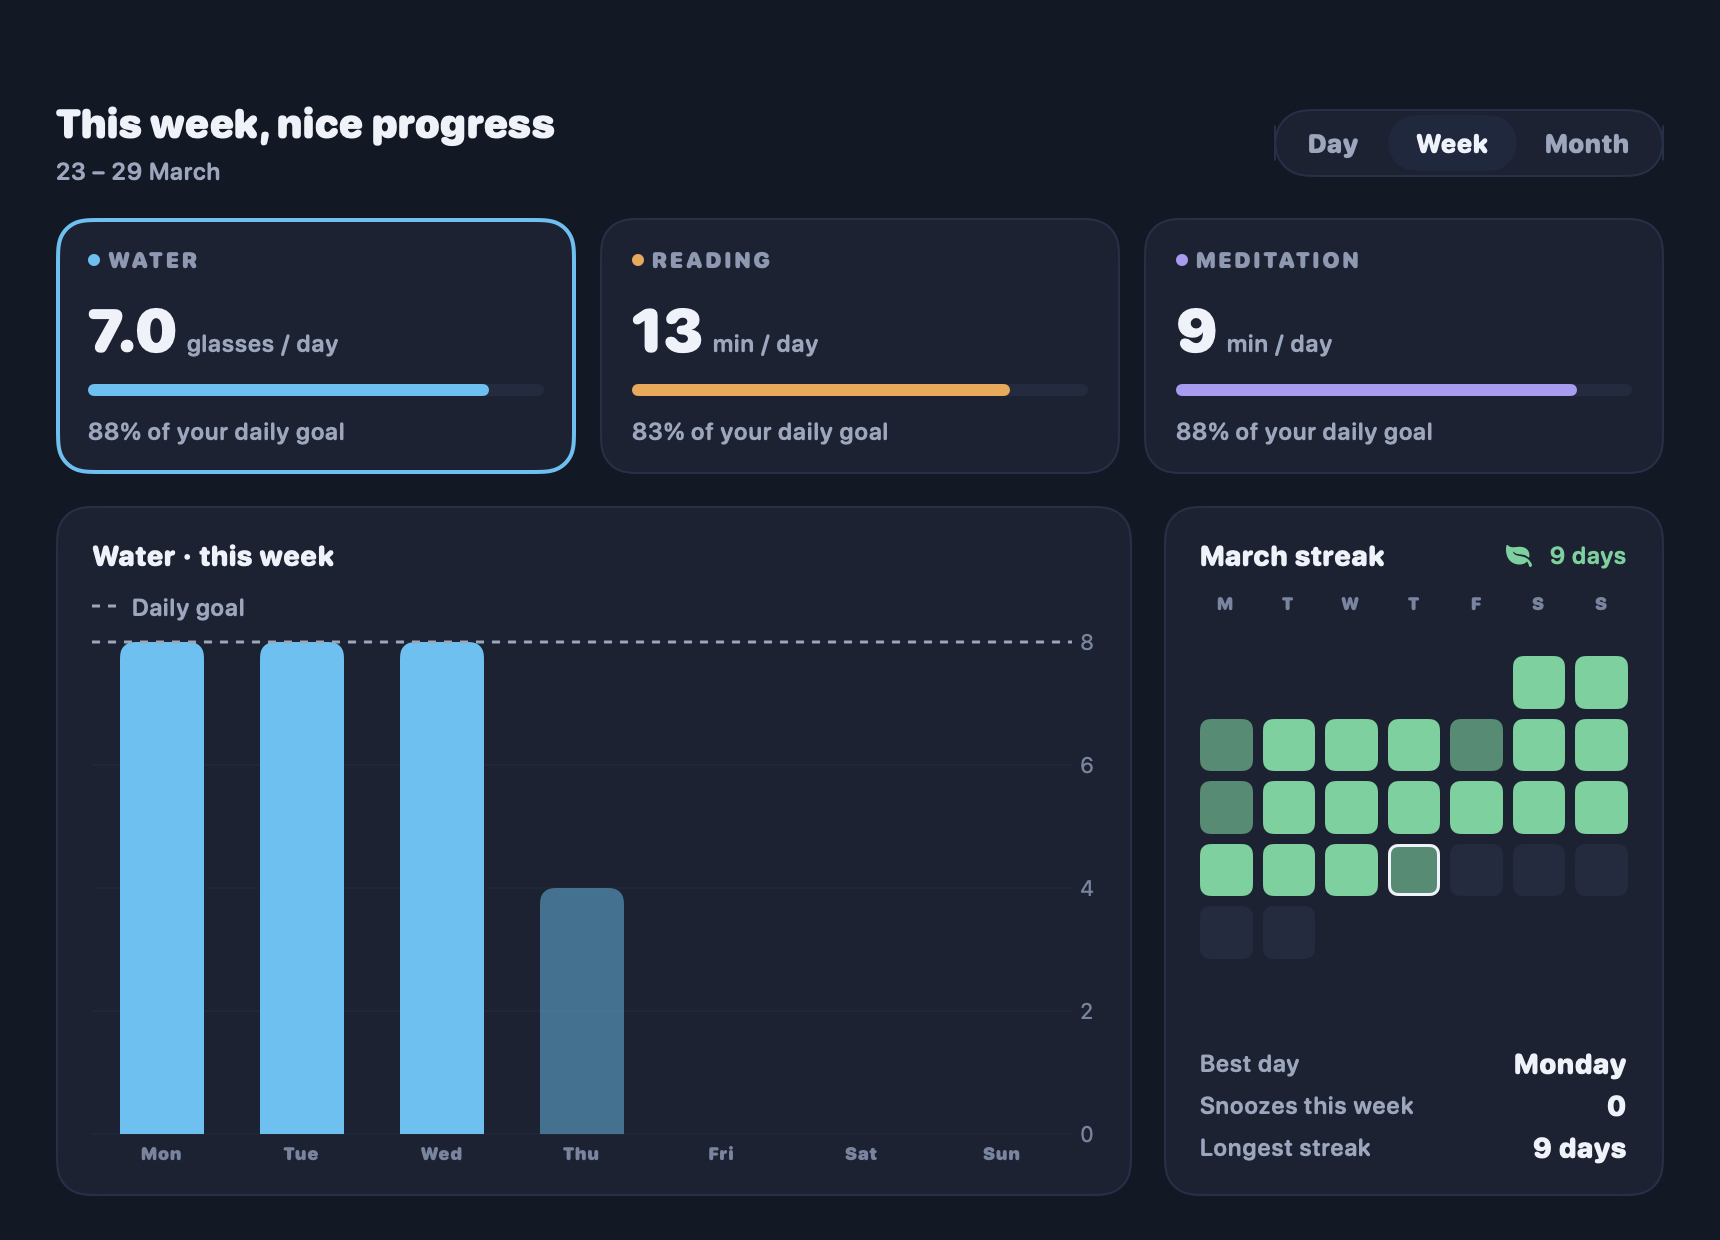
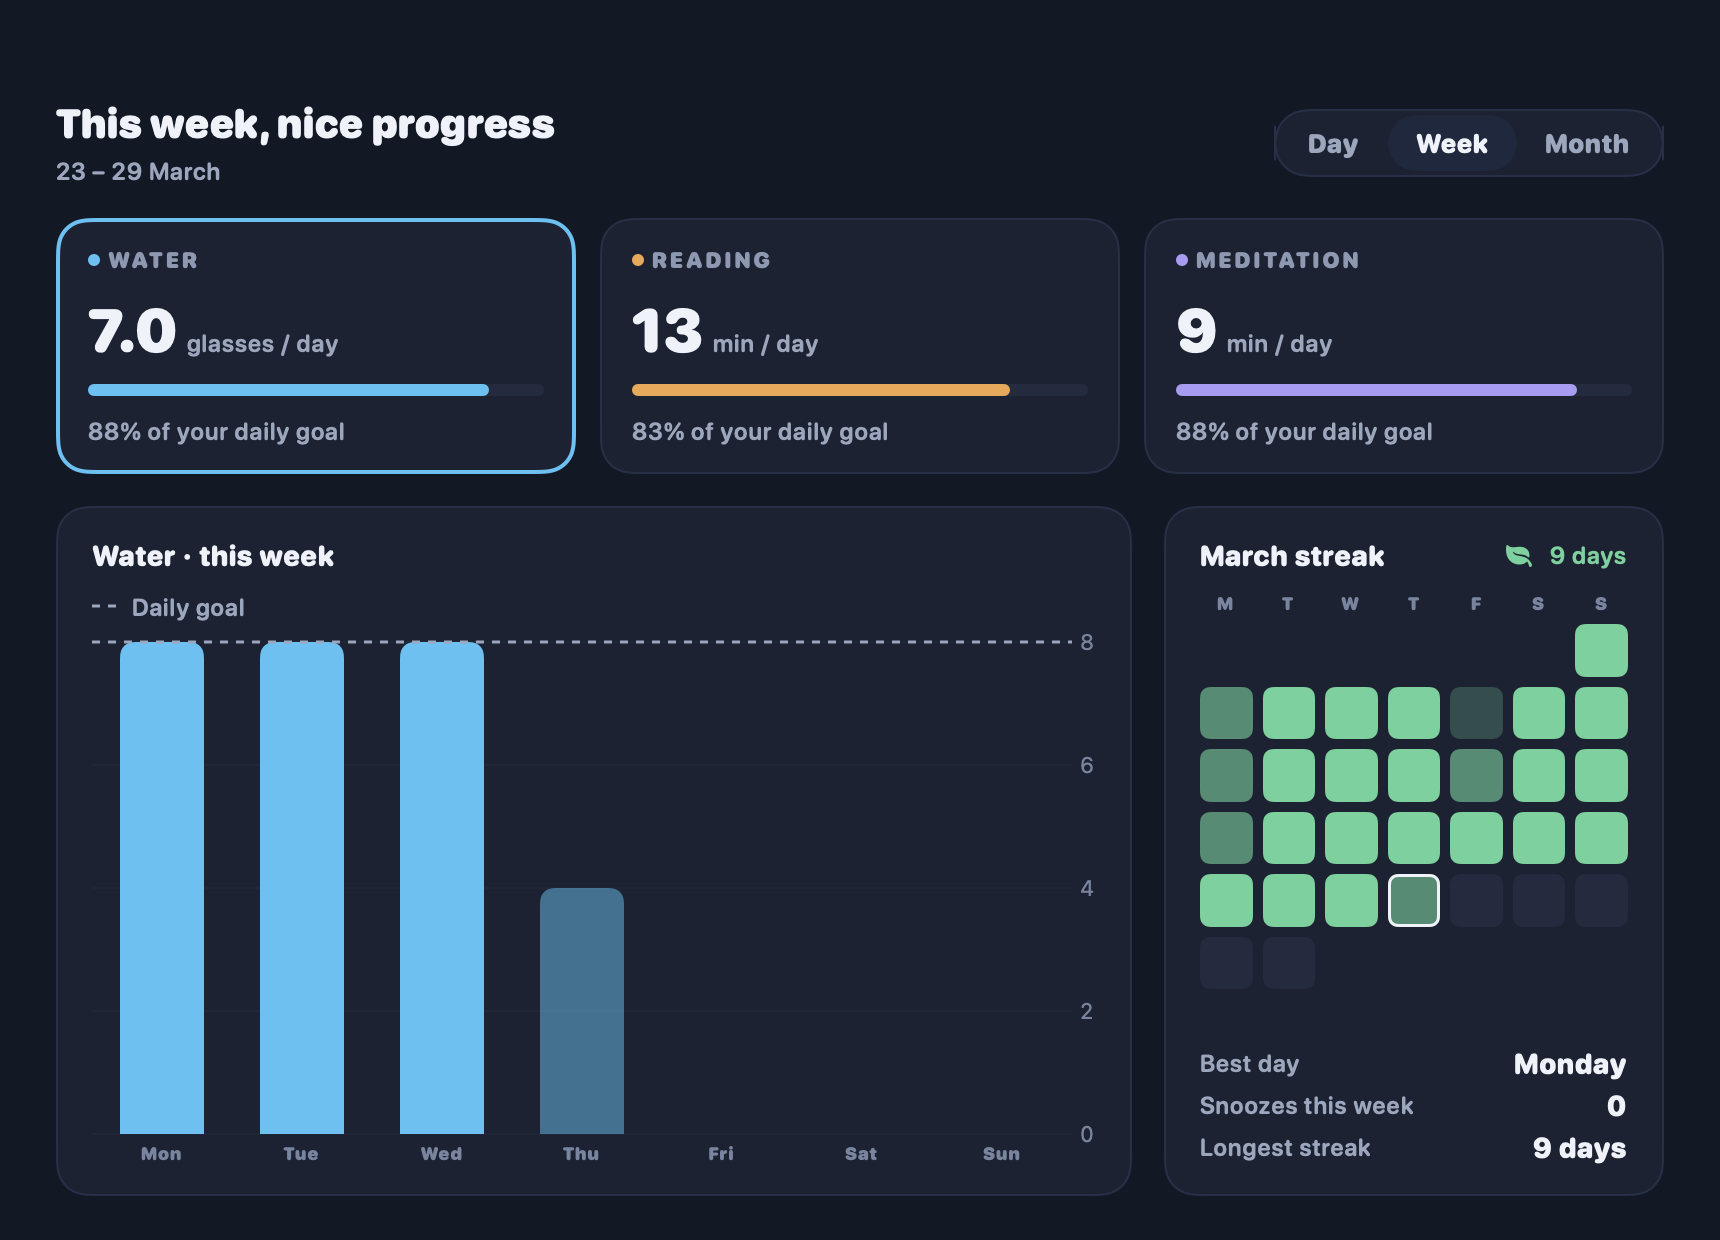
Show every day in the streak calendar
Weekday headers, blanks, and day cells shared IDs in one LazyVGrid, so SwiftUI dropped days 1 to 6. Each grid slot now has a unique ID.

Changed region(s): [[0.6779, 0.4903, 0.9552, 0.7661]]

diff --git a/Sources/SathiUI/Features/Reports/StreakCalendarView.swift b/Sources/SathiUI/Features/Reports/StreakCalendarView.swift
@@ -22,19 +22,26 @@ struct StreakCalendarView: View {
                 .foregroundStyle(Night.sprout)
             }
             LazyVGrid(columns: columns, spacing: UIMetrics.calendarCellGap) {
-                ForEach(Self.weekdays.indices, id: \.self) { i in
-                    Text(verbatim: Self.weekdays[i])
-                        .font(Typography.badge)
-                        .foregroundStyle(Night.faint)
-                }
-                ForEach(0 ..< month.leadingBlanks, id: \.self) { _ in
-                    Color.clear.aspectRatio(1, contentMode: .fit)
-                }
-                ForEach(month.cells) { cell in
-                    StreakCellView(cell: cell)
+                ForEach(Self.slots(month)) { slot in
+                    switch slot {
+                    case let .weekday(i):
+                        Text(verbatim: Self.weekdays[i])
+                            .font(Typography.badge)
+                            .foregroundStyle(Night.faint)
+                    case .blank:
+                        Color.clear.aspectRatio(1, contentMode: .fit)
+                    case let .day(cell):
+                        StreakCellView(cell: cell)
+                    }
                 }
             }
         }
+    }
+
+    static func slots(_ month: StreakMonth) -> [CalendarSlot] {
+        weekdays.indices.map(CalendarSlot.weekday)
+            + (0 ..< month.leadingBlanks).map(CalendarSlot.blank)
+            + month.cells.map(CalendarSlot.day)
     }
 
     private var columns: [GridItem] {

diff --git a/Tests/SathiUITests/ReportsPartsTests.swift b/Tests/SathiUITests/ReportsPartsTests.swift
@@ -23,6 +23,18 @@ struct ReportsPartsTests {
         #expect(headers == ["M", "T", "W", "T", "F", "S", "S"])
     }
 
+    @Test func streakCalendarGridKeepsEveryDayOfTheMonth() {
+        let month = harness().engine.reportScreen(.week, selected: .water).calendar
+        let slots = StreakCalendarView.slots(month)
+        #expect(Set(slots.map(\.id)).count == slots.count)
+        #expect(slots.count == 7 + month.leadingBlanks + 31)
+        let days = slots.compactMap { slot -> Int? in
+            if case let .day(cell) = slot { return cell.day }
+            return nil
+        }
+        #expect(days == Array(1 ... 31))
+    }
+
     @Test func factsShowEachLabelAndValue() throws {
         let facts = harness().engine.reportScreen(.week, selected: .water).facts
         #expect(facts.map(\.label) == ["Best day", "Snoozes this week", "Longest streak"])

diff --git a/Sources/SathiUI/Features/Reports/CalendarSlot.swift b/Sources/SathiUI/Features/Reports/CalendarSlot.swift
@@ -1,0 +1,15 @@
+import SathiCore
+
+enum CalendarSlot: Identifiable {
+    case weekday(Int)
+    case blank(Int)
+    case day(StreakCell)
+
+    var id: String {
+        switch self {
+        case let .weekday(i): "weekday-\(i)"
+        case let .blank(i): "blank-\(i)"
+        case let .day(cell): "day-\(cell.day)"
+        }
+    }
+}

diff --git a/CHANGELOG.md b/CHANGELOG.md
@@ -14,6 +14,7 @@ All user-visible changes to Sathi. Each version has a tag `vX.Y.Z` and a GitHub 
 ### Fixed
 
 - Menu bar: a long buddy name or reminder time no longer breaks across lines. The time moves under the name when the row is too narrow.
+- Reports: the streak calendar shows every day of the month. Before, it lost the first days.
 
 ## [2.0] - 2026-10-25
 
